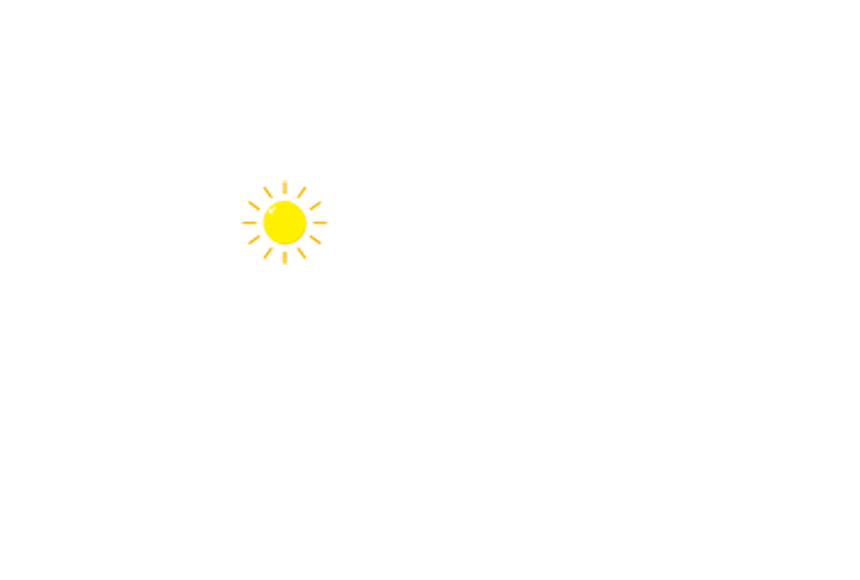
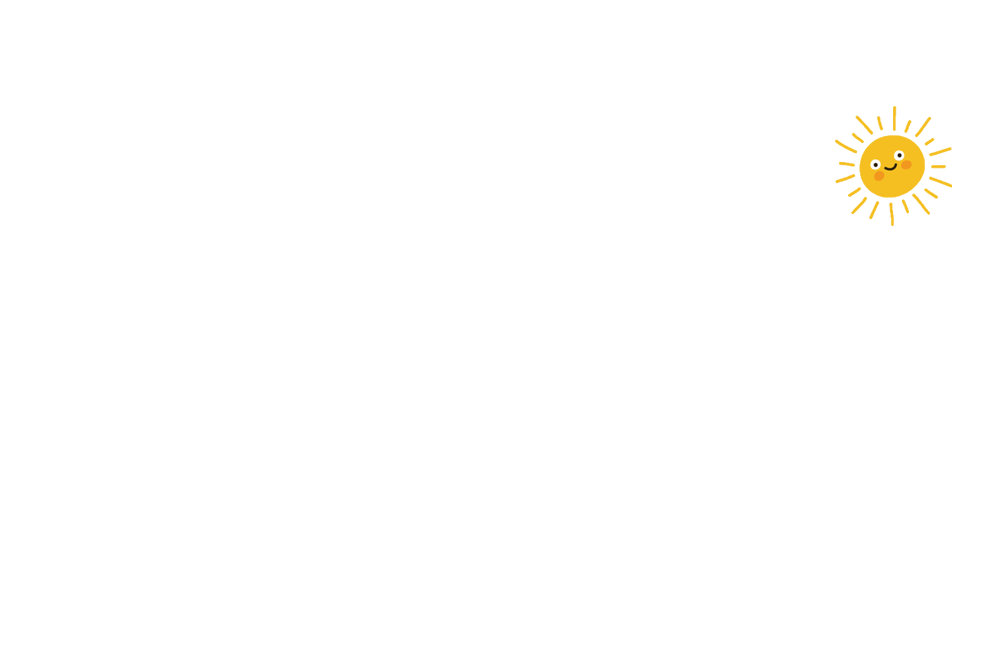
paralax home

Changed region(s): [[0.8465, 0.1552, 0.9674, 0.3414], [0.2721, 0.3103, 0.393, 0.4655]]

diff --git a/public/css/main.css b/public/css/main.css
@@ -30,21 +30,33 @@
   padding-left: 10vw !important;
   padding-right: 10vw !important;
 }
-
+ .padding{
+  z-index: 10;
+}
 
   /* for home section */
 section{
   position: relative;
   width: 100%;
-  min-height: 100vh;
+  height: 100vh;
   display: flex;
   justify-content: center;
   align-items: center;
 }
+section::before{
+  content: '';
+  position: absolute;
+  bottom: 0;
+  left: 0;
+  width: 100%;
+  height: 100px;
+  background: linear-gradient(to top, #094b65,transparent);
+  z-index: 10;
+}
 section #text{
   position: absolute;
   color: #094b65;
-  font-size: 10vw;
+  font-size: 18vw;
   text-align: center;
   line-height: 0.55em;
 

diff --git a/resources/views/layout/mainhome.blade.php b/resources/views/layout/mainhome.blade.php
@@ -1,0 +1,42 @@
+<!doctype html>
+<html lang="en">
+  <head>
+    <!-- Required meta tags -->
+    <meta charset="utf-8">
+    <meta name="viewport" content="width=device-width, initial-scale=1">
+    <link rel="stylesheet" href="css/main.css">
+    <!-- Bootstrap CSS -->
+    <link href="https://cdn.jsdelivr.net/npm/bootstrap@5.1.1/dist/css/bootstrap.min.css" rel="stylesheet" integrity="sha384-F3w7mX95PdgyTmZZMECAngseQB83DfGTowi0iMjiWaeVhAn4FJkqJByhZMI3AhiU" crossorigin="anonymous">
+    {{-- Bootstrap icon --}}
+    <link rel="stylesheet" href="https://cdn.jsdelivr.net/npm/bootstrap-icons@1.6.1/font/bootstrap-icons.css">
+   
+
+    <title>Home | {{ $title }}</title>
+  </head>
+  <body>
+  {{-- @yield('navbar') --}}
+  @yield('navbar')
+
+
+<div class="container mt-3">
+    @yield('container')
+</div>
+
+
+{{-- <div class="background">
+  <footer class="py-3 my-4 ">
+    <ul class="nav justify-content-center border-bottom pb-3 mb-3">
+      <li class="nav-item"><a href="#" class="nav-link px-2 text-muted">Home</a></li>
+      <li class="nav-item"><a href="#" class="nav-link px-2 text-muted">Features</a></li>
+      <li class="nav-item"><a href="#" class="nav-link px-2 text-muted">Pricing</a></li>
+      <li class="nav-item"><a href="#" class="nav-link px-2 text-muted">FAQs</a></li>
+      <li class="nav-item"><a href="#" class="nav-link px-2 text-muted">About</a></li>
+    </ul>
+    <p class="text-center text-muted">© 2021 Company, Inc</p>
+  </footer>
+</div> --}}
+    <!--  Bootstrap Bundle with Popper -->
+    <script src="https://cdn.jsdelivr.net/npm/bootstrap@5.1.1/dist/js/bootstrap.bundle.min.js" integrity="sha384-/bQdsTh/da6pkI1MST/rWKFNjaCP5gBSY4sEBT38Q/9RBh9AH40zEOg7Hlq2THRZ" crossorigin="anonymous"></script>
+   
+  </body>
+</html>

diff --git a/resources/views/home.blade.php b/resources/views/home.blade.php
@@ -2,10 +2,11 @@
 @extends('layout.transparentnavbar')
 @section('container')
   <section>
-      <h2 id="text"><span class="text1"> Welcome To My</span><br><span class="text2">BLOG</span> </h2>
-      <img src="img/matahari.png" alt="">
-      <img src="img/gedung.png" alt="">
-      <img src="img/saya.png" alt="">
+      <h2 id="text" ><span class="text1"> Welcome To My</span><br><span class="text2">BLOG</span> </h2>
+      <img src="img/gedung.png" alt="" id="gedung">
+      <img src="img/matahari.png" alt="" id="sun">
+      <img src="img/pesawat.png" alt="" id="plane">
+      <img src="img/saya.png" alt="" id="me">
 
   </section>
   <div class="sec">
@@ -17,5 +18,23 @@
           max-width: 100% !important;
           padding: 0px !important;
       }
+      .mt-3{
+          margin-top: 0 !important; 
+      }
   </style>
+  <script>
+      let gedung = document.getElementById('gedung');
+      let text = document.getElementById('text');
+      let sun = document.getElementById('sun');
+      let plane = document.getElementById('plane');
+      let me = document.getElementById('me');
+      window.addEventListener('scroll',function(){
+          let value = window.scrollY;
+          text.style.top = 10 + value * -0,9 + '%';
+          gedung.style.top = value * 0.5 + 'px';
+          sun.style.left = value * 0.1 + 'px';
+          plane.style.left = value * 0.5 + 'px';
+          me.style.left = value * 0.2 + 'px';
+      })
+  </script>
 @endsection

diff --git a/resources/views/layout/transparentnavbar.blade.php b/resources/views/layout/transparentnavbar.blade.php
@@ -1,4 +1,4 @@
-<nav class="navbar navbar-expand-lg navbar-light padding">
+<nav class="navbar  navbar-expand-lg navbar-light padding">
     <div class="container">
       <a class="navbar-brand" href="/posts">PRADIPTA</a>
       <button class="navbar-toggler" type="button" data-bs-toggle="collapse" data-bs-target="#navbarNav" aria-controls="navbarNav" aria-expanded="false" aria-label="Toggle navigation">
